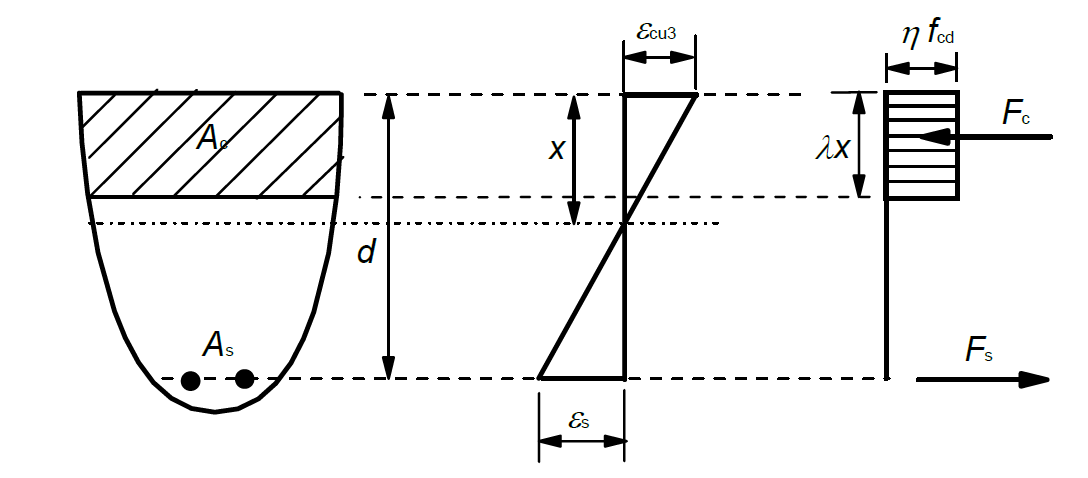
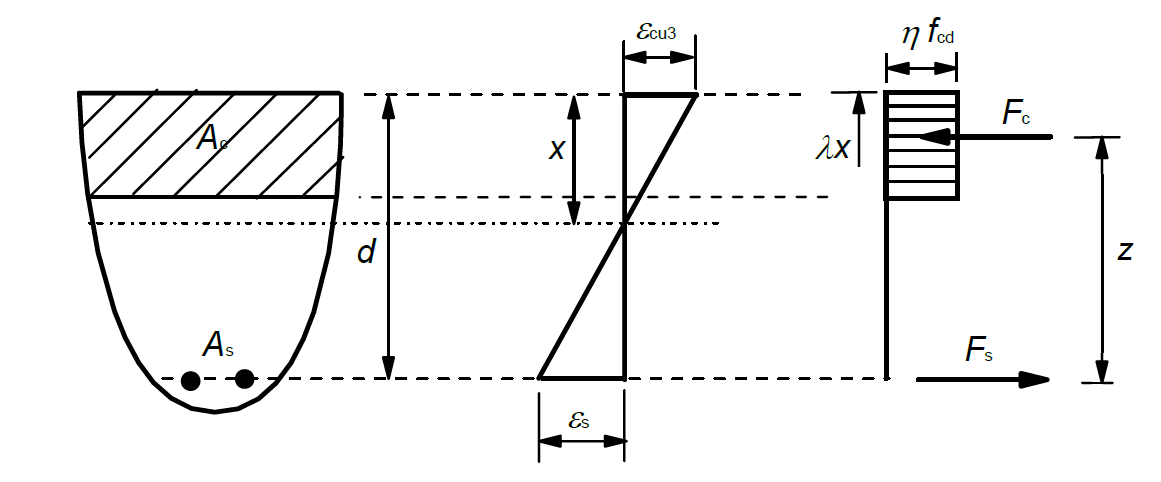
New post

Changed region(s): [[0.0625, 0.0293, 1.0, 0.9665]]

diff --git a/_posts/2022-06-02-ec2-flexure.md b/_posts/2022-06-02-ec2-flexure.md
@@ -54,63 +54,63 @@ $$
 Rearranging (6):
 
 $$
-\frac{M \cdot \gamma_{c}}{\eta \cdot \alpha_{cc} \cdot f_{ck} \cdot b} = \lambda \cdot x \cdot \left (d - \frac{\lambda \cdot x}{2}\right )
+\frac{M \cdot \gamma_{c}}{\eta \cdot \alpha_{cc} \cdot f_{ck} \cdot b} = \lambda \cdot x \cdot \left (d - \frac{\lambda \cdot x}{2}\right )  \tag{7}
 $$
 
 $$
-\frac{M \cdot \gamma_{c}}{\eta \cdot \alpha_{cc} \cdot f_{ck} \cdot b} = \lambda \cdot x \cdot d  - \frac{ \left( \lambda \cdot x \right)^{2}}{2} \tag{7}
+\frac{M \cdot \gamma_{c}}{\eta \cdot \alpha_{cc} \cdot f_{ck} \cdot b} = \lambda \cdot x \cdot d  - \frac{ \left( \lambda \cdot x \right)^{2}}{2} \tag{8}
 $$
 
-Dividing (7) by $d^2$
+Dividing (8) by $d^2$
 
 $$
-\frac{M \cdot \gamma_{c}}{\eta \cdot \alpha_{cc} \cdot f_{ck} \cdot b \cdot d^2} = \frac{\lambda \cdot x}{d} - \frac{1}{2} \cdot \left(\frac{ \lambda \cdot x}{d}\right) ^{2}  \tag{8}
+\frac{M \cdot \gamma_{c}}{\eta \cdot \alpha_{cc} \cdot f_{ck} \cdot b \cdot d^2} = \frac{\lambda \cdot x}{d} - \frac{1}{2} \cdot \left(\frac{ \lambda \cdot x}{d}\right) ^{2}  \tag{9}
 $$
 
 Defining:
 
 $$
-k = \frac{M}{f_{ck} \cdot b \cdot d^2} \tag{9}
+k = \frac{M}{f_{ck} \cdot b \cdot d^2} \tag{10}
 $$
 
 and:
 
 $$
-\beta = \frac{2 \cdot \gamma_{c}}{\eta \cdot \alpha_{cc}} \tag{10}
+\beta = \frac{2 \cdot \gamma_{c}}{\eta \cdot \alpha_{cc}} \tag{11}
 $$
 
-We can write (8) as:
+We can write (9) as:
 
 $$
-\alpha^2 - 2 \cdot \alpha + \beta \cdot k \tag{11}
+\alpha^2 - 2 \cdot \alpha + \beta \cdot k \tag{12}
 $$
 
-Solving the quadratic equation (11):
+Solving the quadratic equation (12):
 
 $$
-\alpha = 1 - \sqrt{1 - \beta \cdot k } \tag{12}
+\alpha = 1 - \sqrt{1 - \beta \cdot k } \tag{13}
 $$
 
-Then, we can calculate the lever arm $(z)$ for an applied moment by submitting (11) in (5):
+Then, we can calculate the lever arm $(z)$ for an applied moment by submitting (13) in (5):
 
 $$
-  \frac{z}{d} =  1 - 0.5 \cdot \left (  1 - \sqrt{1 - \beta \cdot k } \right ) =  0.5 \cdot \left (  1 + \sqrt{1 - \beta \cdot k } \right )\tag{12}
+  \frac{z}{d} =  1 - 0.5 \cdot \left (  1 - \sqrt{1 - \beta \cdot k } \right ) =  0.5 \cdot \left (  1 + \sqrt{1 - \beta \cdot k } \right )\tag{14}
 $$
 
 $$
-z = 0.5 \cdot d \cdot \left (  1 + \sqrt{1 - \beta \cdot k } \right ) \tag{13}
+z = 0.5 \cdot d \cdot \left (  1 + \sqrt{1 - \beta \cdot k } \right ) \tag{15}
 $$
 
 Take moments about the centre of the compression force:
 
 $$
-M = A_{s} \cdot f_{yk} \cdot z \tag{14}
+M = A_{s} \cdot f_{yk} \cdot z \tag{16}
 $$
 
-Rearranging (13):
+Rearranging (16):
 
 $$
-A_{s} = \frac{M}{f_{yk} \cdot z } \tag{15}
+A_{s} = \frac{M}{f_{yk} \cdot z } \tag{17}
 $$
 
 ## References
